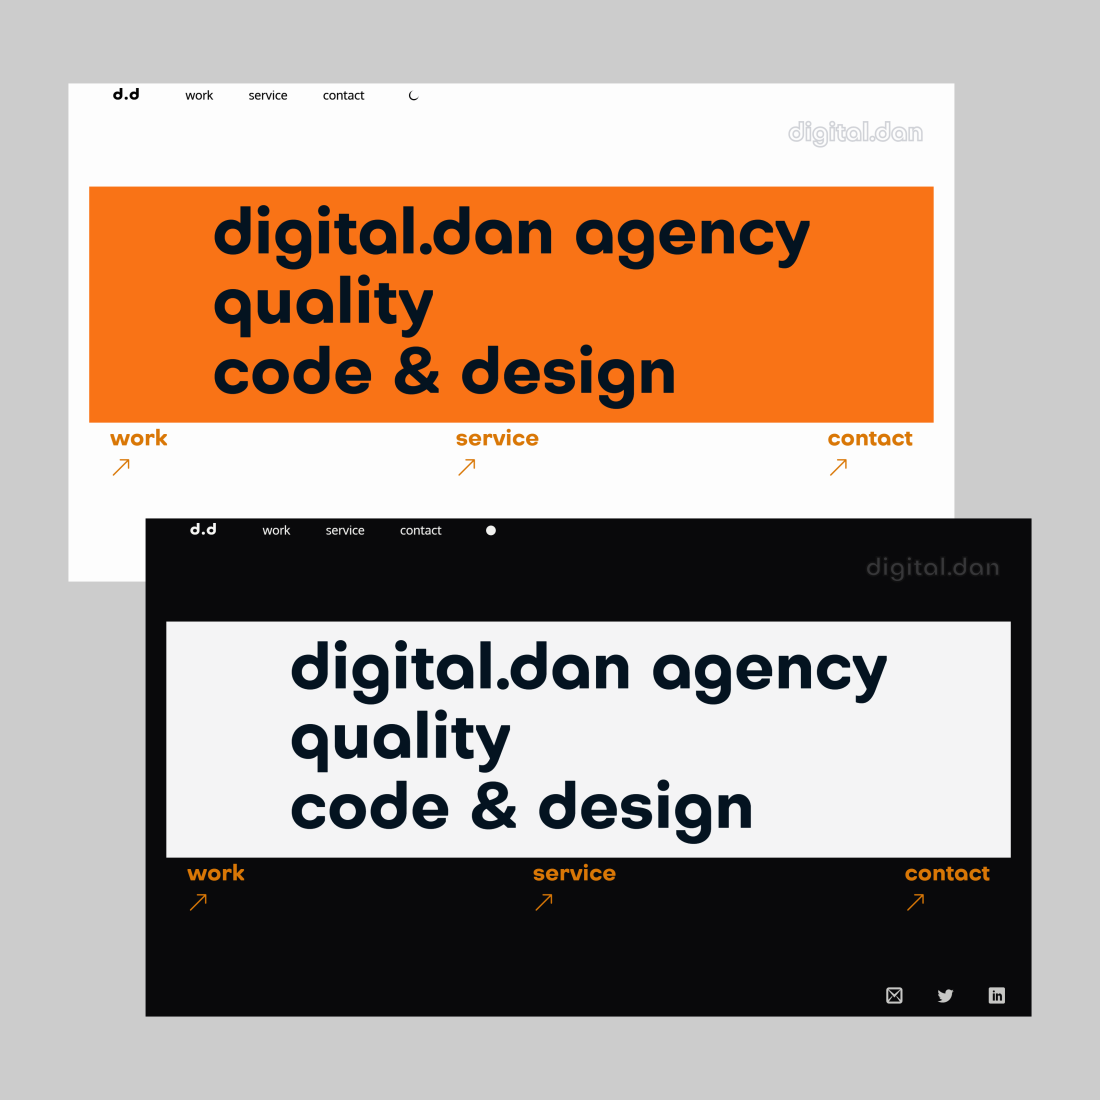
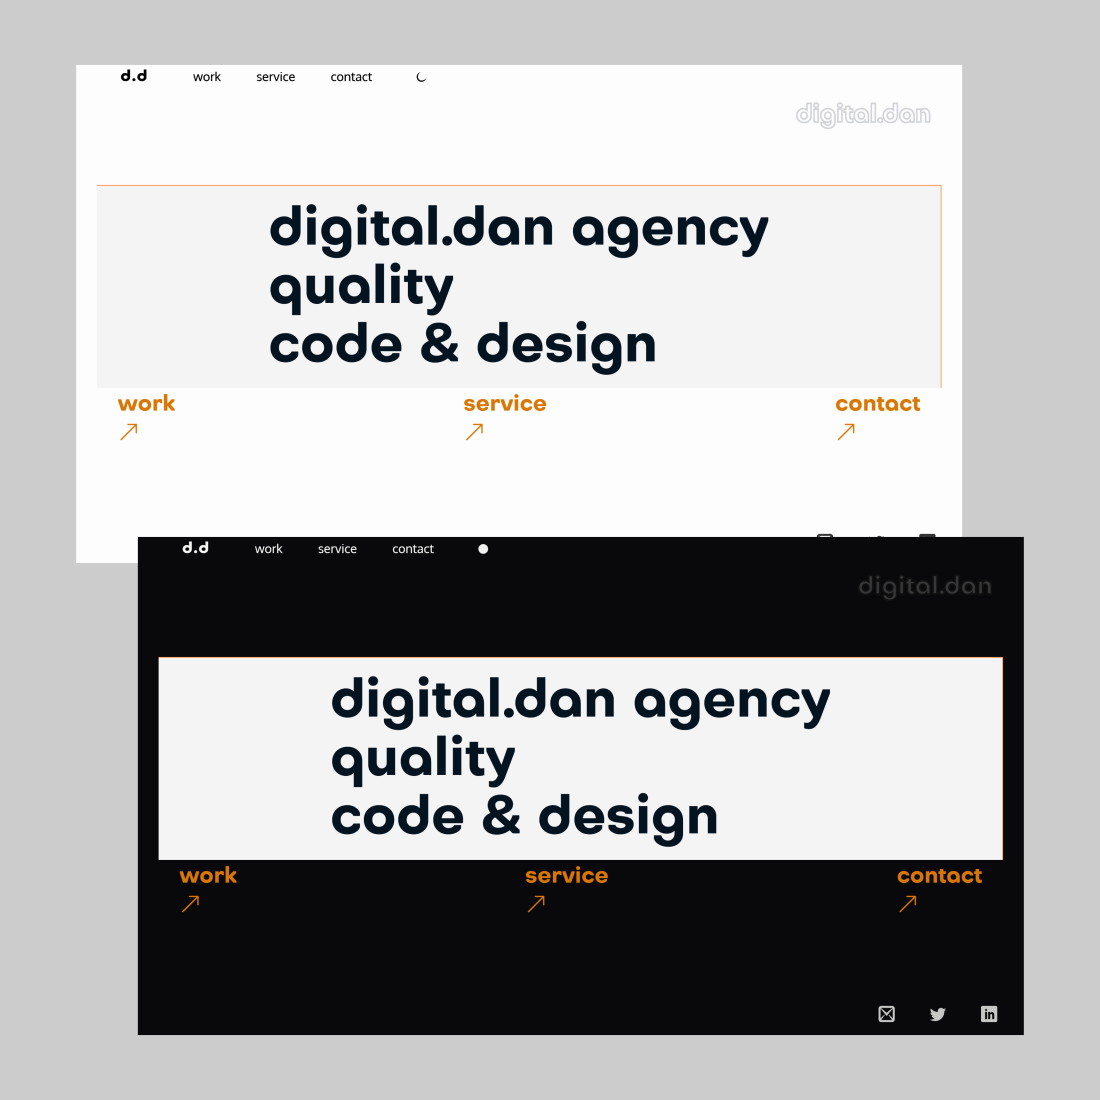
hero update

Changed region(s): [[0.0618, 0.0618, 0.9582, 0.9582]]

diff --git a/components/Navbar.js b/components/Navbar.js
@@ -4,6 +4,7 @@ import { useRouter } from 'next/router'
 
 const menu = [
 
+    { title: 'home', path: '/' },
     { title: 'work', path: '/Work' },
     { title: 'service', path: '/About' },
     { title: 'contact', path: '/Contact' }
@@ -28,9 +29,7 @@ const Navbar = () => {
             top-0">
                     <Link href="/">
                         <span className="font-[octarine] tracking-widest cursor-pointer mix-blend-difference
-                logo
-                    
-                    "> d.d</span>
+                logo"> d.d</span>
                     </Link>
                     <h1 className="fixedheader fixed right-[1rem] md:right-[3rem] top-[3rem] opacity-80 
                 
@@ -38,12 +37,11 @@ const Navbar = () => {
 
                     <ul className="flex flex-row items-center space-x-[4vw]">
                         {menu.map((item, index) => {
-
                             return (
                                 <Link key={index} href={item.path}>
 
                                     <a className=
-                                        {`link ${router.pathname === item.path ? 'text-amber-100' : ''}`}
+                                        {`link ${router.pathname === item.path ? 'text-sky-400' : ''}`}
 
                                     >
                                         {item.title}

diff --git a/pages/About.js b/pages/About.js
@@ -30,7 +30,7 @@ const About = () => {
                                 <h1 className="header">Agency for creative agencies</h1>
                                 <br />
                                 <div>Helping creative agencies around to world turning their ideas into well performing code.
-                                    In addition my agency offers digital design services to help you reduce your work load.</div>
+                                    In addition my agency offers digital design services to help you reduce your workload.</div>
                                 <br />
                                 <ul className="header list-disc">
                                     Services:
